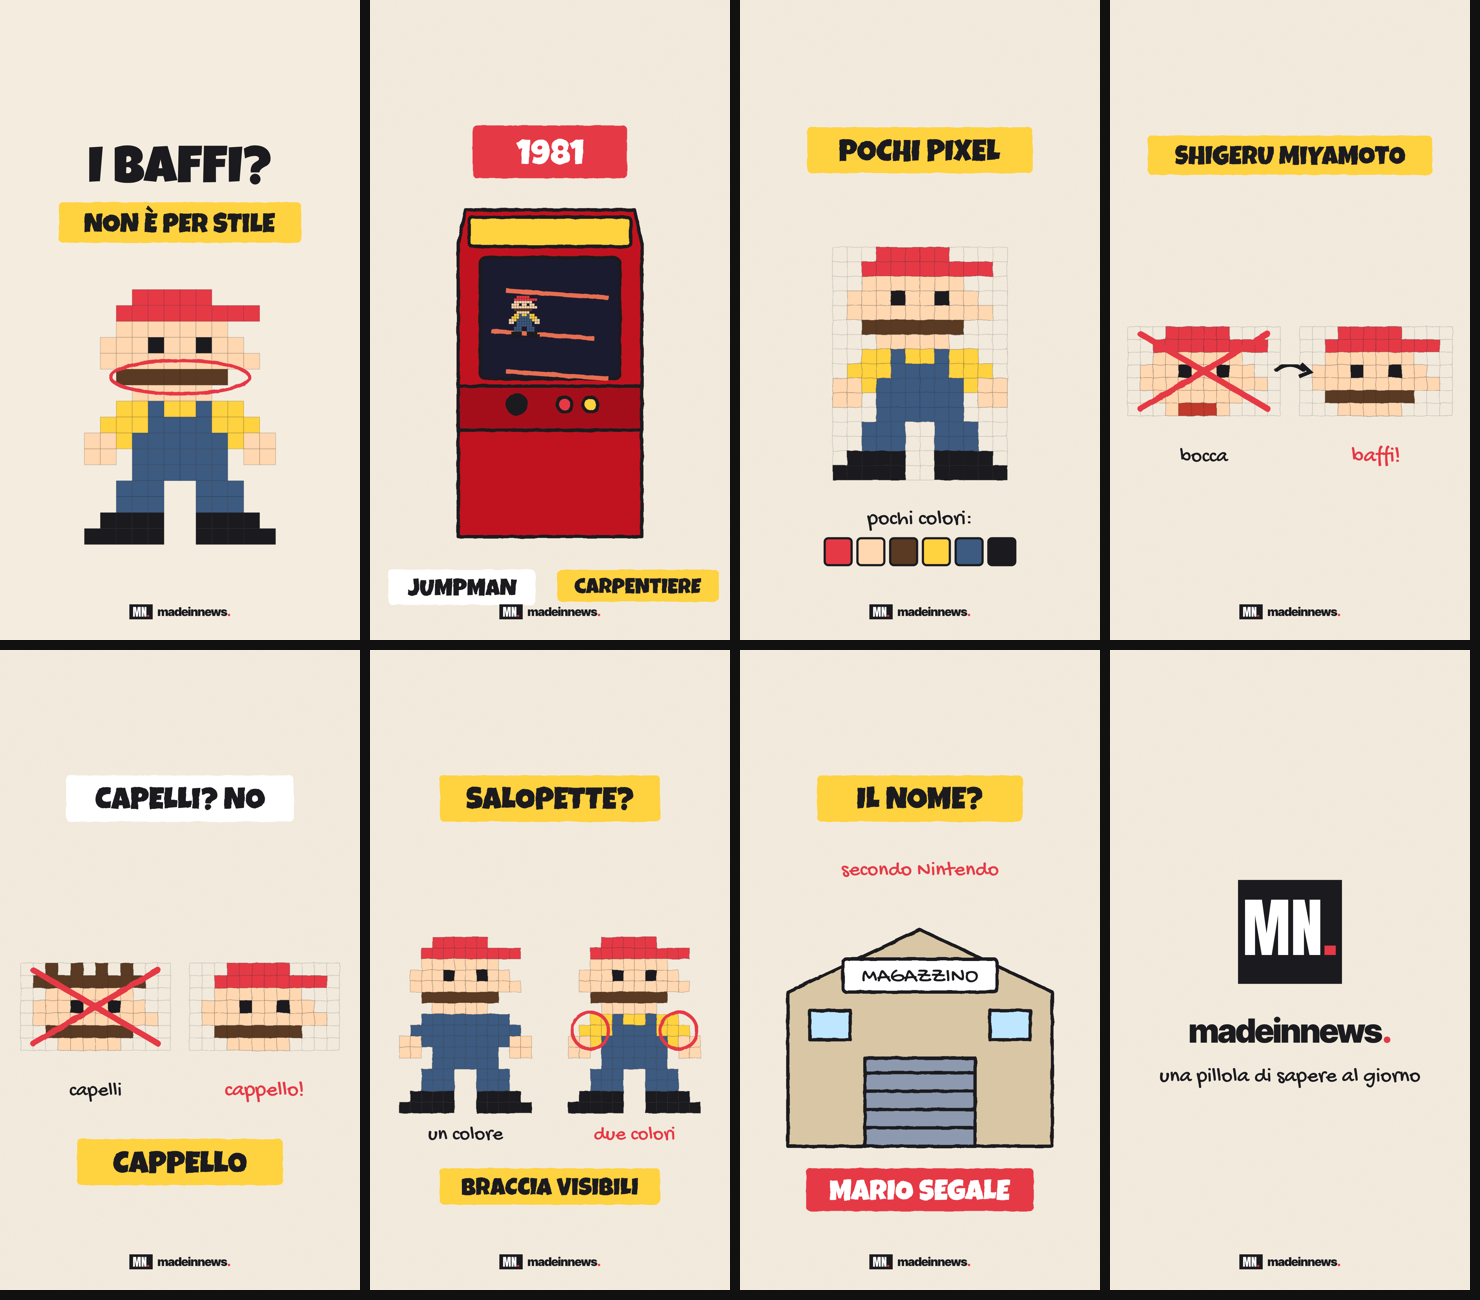
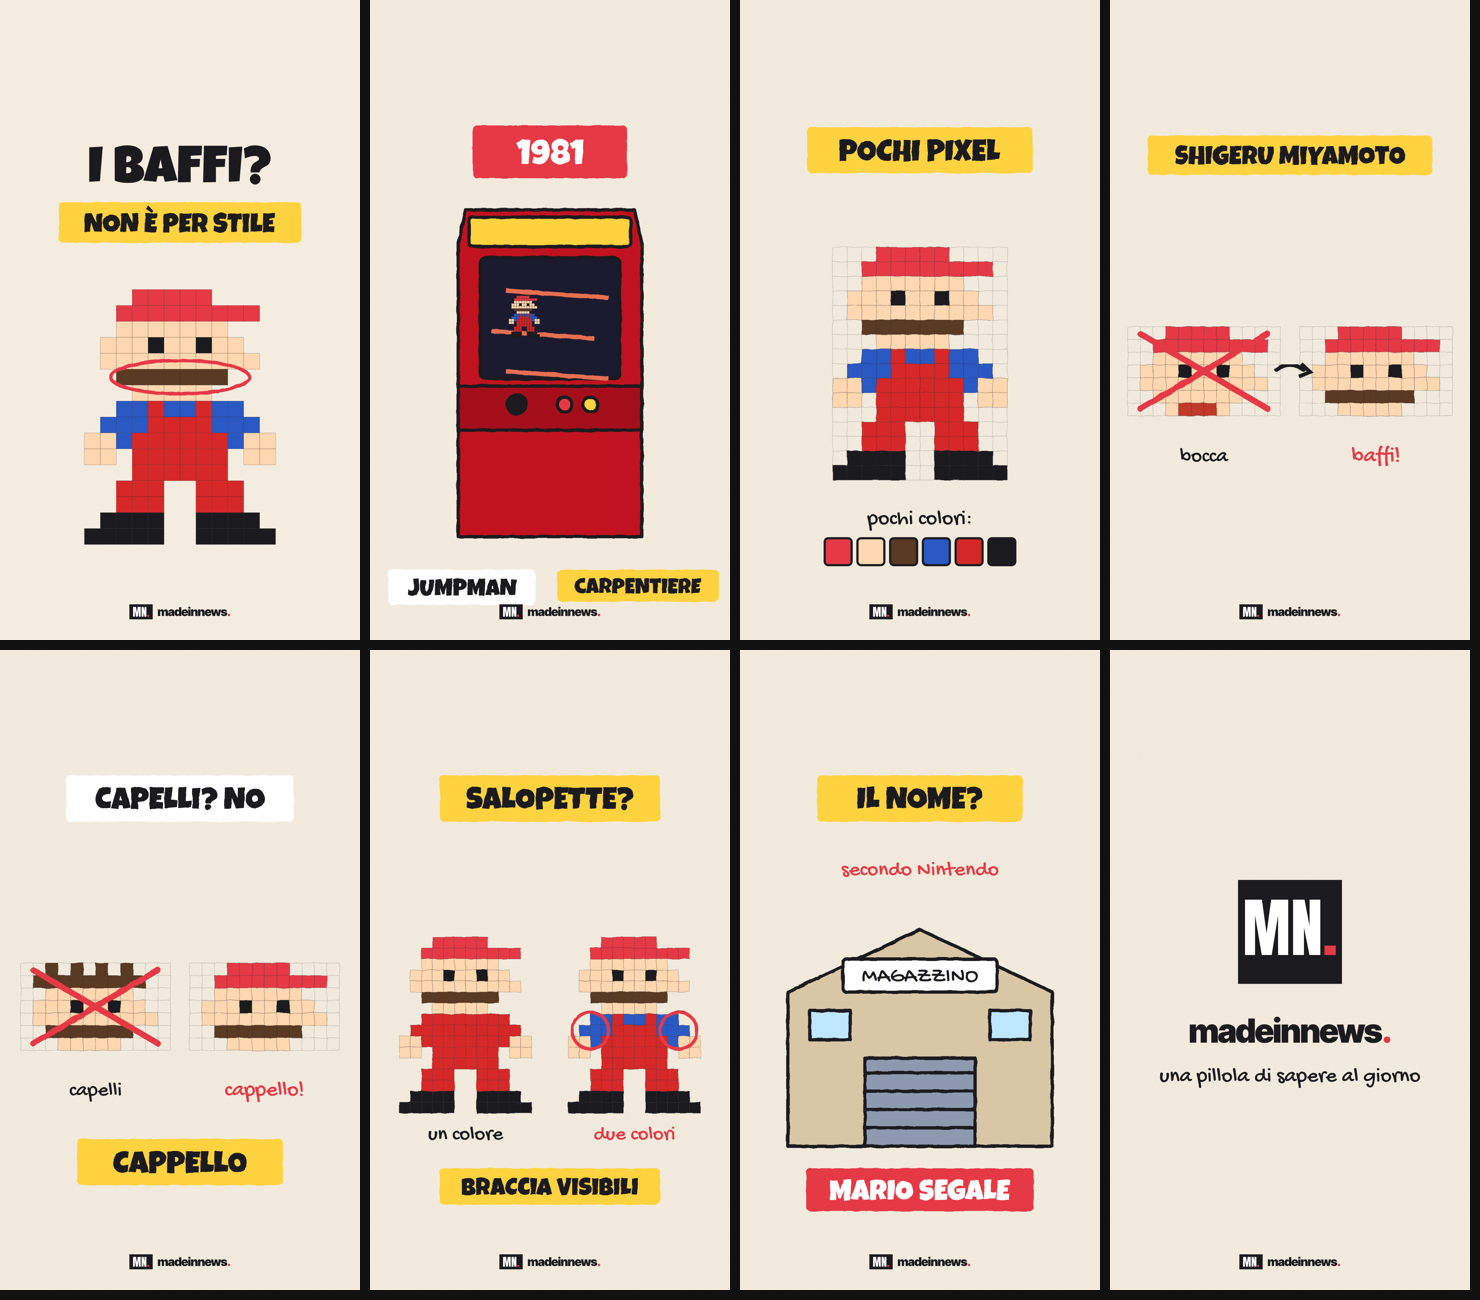
Reel Mario: colori come nel 1981
Claude-Session: https://claude.ai/code/session_01RiLp1FWEa9A5i6rpLf5r8e

diff --git a/engine/mario_build.js b/engine/mario_build.js
@@ -11,7 +11,7 @@ const hl=(y,w,t,size=72,fill=YEL,col=INK)=>`<g filter="url(#wob)"><g class="bx">
 const tagAt=(cx,y,w,t,size,fill,col=INK)=>`<g filter="url(#wob)"><g class="bx"><rect x="${cx-w/2}" y="${y}" width="${w}" height="${size*1.5}" rx="12" fill="${fill}"/><text x="${cx}" y="${y+size*1.1}" text-anchor="middle" ${F('Luckiest Guy')} font-size="${size}" fill="${col}">${t}</text></g></g>`;
 const hand=(x,y,t,size=56,col=INK)=>`<text x="${x}" y="${y}" text-anchor="middle" ${F('Gochi Hand')} font-size="${size}" fill="${col}">${t}</text>`;
 // sprite generico (12x16) — non è lo sprite Nintendo
-const PAL={R:RED,S:'#ffd7b0',H:'#5a3a22',Y:YEL,B:'#3d5a80',K:INK,W:'#fff',M:'#c0392b',G:'#8a8a8a'};
+const PAL={R:RED,S:'#ffd7b0',H:'#5a3a22',Y:'#2b59c3',B:'#d62828',K:INK,W:'#fff',M:'#c0392b',G:'#8a8a8a'};
 const BASE=["...RRRRR....","..RRRRRRRRR.","..SSSSSSS...",".SSSKSSKSS..",".SSSSSSSSSS.","..HHHHHHH...","...SSSSS....","..YYBYYBYY..",".YYYBBBBYYY.","SSYBBBBBBYSS","SS.BBBBBB.SS","...BBBBBB...","..BBB..BBB..","..BBB..BBB..",".KKKK..KKKK.","KKKKK..KKKKK"];
 const pix=(rows,cx,cy,c,stag=null,grid=false)=>{const w=rows[0].length*c,h=rows.length*c;let o=`<g transform="translate(${cx-w/2},${cy-h/2})">`;let k=0;
  if(grid)for(let i=0;i<=rows[0].length;i++)o+=`<line x1="${i*c}" y1="0" x2="${i*c}" y2="${h}" stroke="${INK}" stroke-opacity=".15" stroke-width="2"/>`;
